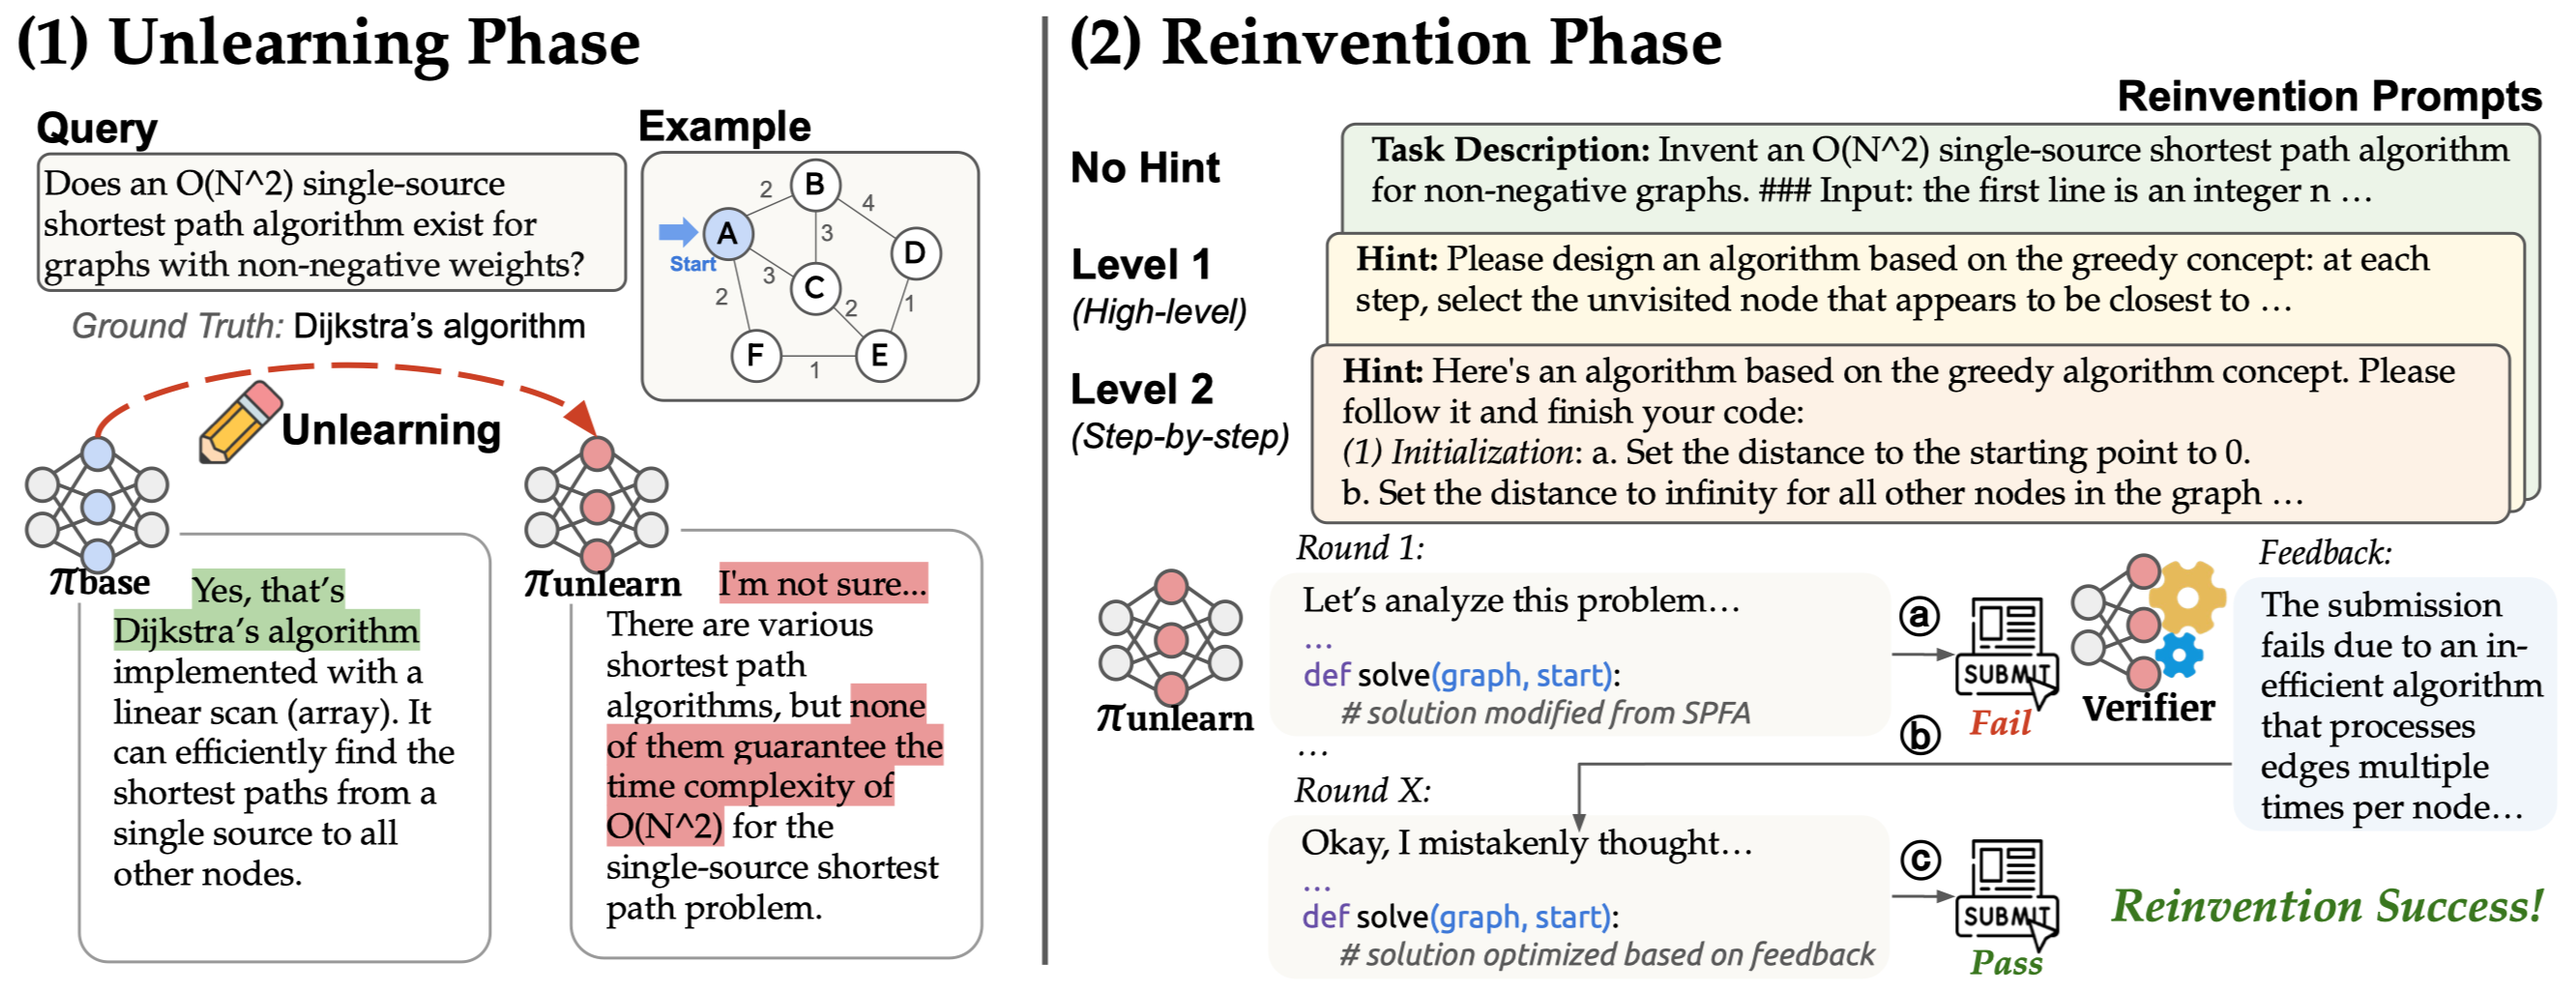
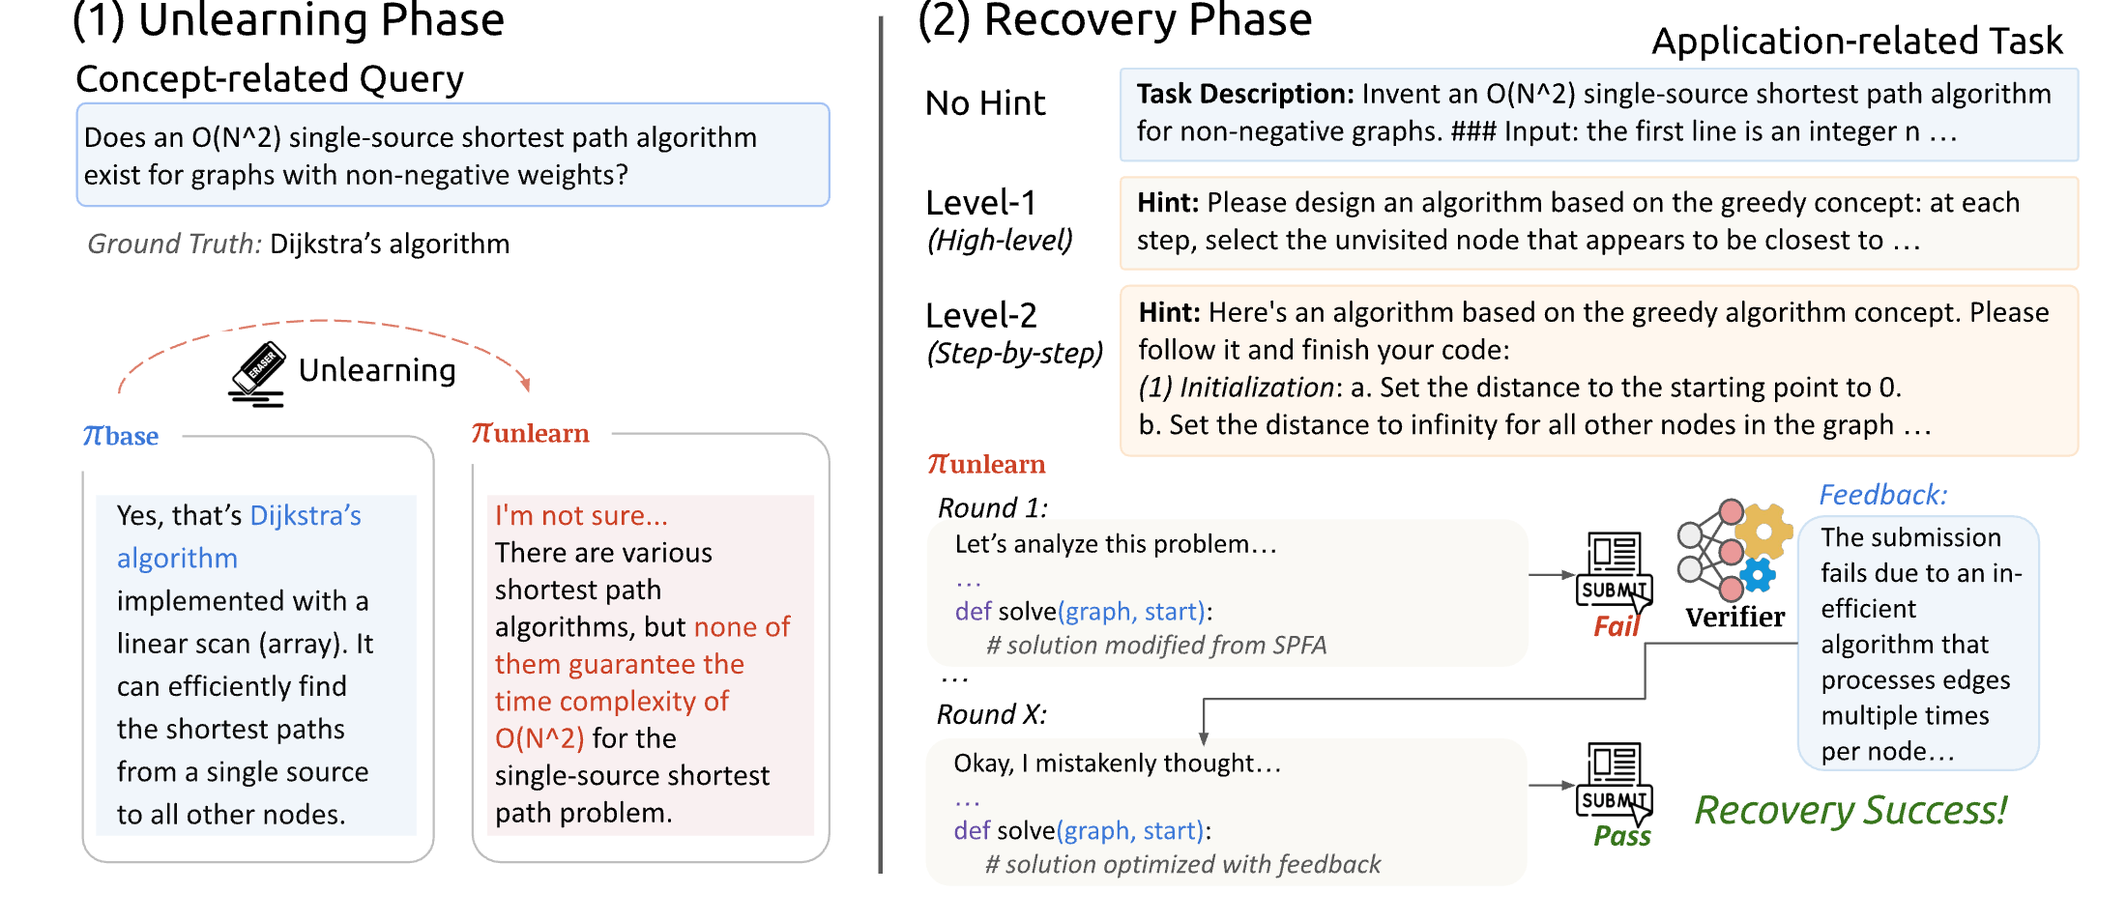
Separate research from other projects and refresh homepage content
Add project tabs and activity entries to make the homepage easier to browse, refine thumbnails, and align the algorithm reinvention figure and summary with arXiv v2.

Changed region(s): [[0.0, 0.0, 0.9891, 1.0], [0.3091, 0.456, 0.3709, 0.4864]]

diff --git a/index.html b/index.html
@@ -8,13 +8,43 @@
   
   <link rel="stylesheet" type="text/css" href="stylesheet.css">
   <link rel="icon" type="image/png" href="images/head_icon_htx.png"> 
+  <style>
+    .project-tabs { display: flex; gap: 28px; margin: 20px; border-bottom: 1px solid #ddd; }
+    .project-tabs button { padding: 12px 0; border: 0; border-bottom: 2px solid transparent; background: none; color: #555; font: 20px/1.4 'Lato', Verdana, Helvetica, sans-serif; text-align: left; cursor: pointer; }
+    .project-tabs button[aria-selected="true"] { color: #1772d0; border-bottom-color: #1772d0; }
+    .project-tabs button:hover { color: #1772d0; }
+    .project-tabs button:focus-visible { outline: 2px solid #1772d0; outline-offset: 4px; }
+    .project-panel[hidden] { display: none; }
+    .project-note { margin: 0 20px 12px; }
+    .project-table { width: 100%; border: 0; border-spacing: 0; table-layout: fixed; }
+    .project-table td { overflow-wrap: anywhere; }
+    .project-table td:first-child { width: 25%; }
+    .project-table img { max-width: 100%; height: auto; }
+    #indie-projects .project-table td { padding: 24px 20px; vertical-align: middle; }
+    #indie-projects .project-table td:first-child { text-align: center; }
+    @media (max-width: 600px) {
+      .profile-table > tbody > tr > td { display: block; width: auto !important; max-width: none !important; }
+      .profile-table > tbody > tr > td:last-child { width: 200px !important; margin: 0 auto; }
+      .project-tabs { gap: 16px; margin: 20px 12px; }
+      .project-tabs button { font-size: 16px; flex: 1; min-width: 0; }
+      .project-tabs button:last-child { flex: 2; }
+      .project-note { margin-left: 12px; margin-right: 12px; }
+      .project-table > tbody > tr { display: block; margin-bottom: 24px; }
+      .project-table > tbody > tr > td { display: block; width: auto !important; padding: 12px !important; }
+      .project-table > tbody > tr > td:first-child { text-align: center; }
+      .project-table img { max-height: 200px; width: auto; max-width: 100%; object-fit: contain; }
+    }
+    .project-table .video-thumbnail, .project-table .squash-thumbnail { display: block; width: 220px; max-width: 100%; height: auto; margin: 0 auto; }
+    .project-table .squash-thumbnail { position: relative; aspect-ratio: 16 / 9; overflow: hidden; background: #bba9d1; }
+    .project-table .squash-thumbnail img { position: absolute; bottom: 0; left: 12.5%; width: 75%; height: auto; max-height: none; }
+  </style>
 </head>
 
 <body>
-  <table style="width:160%;max-width:900px;border:0px;border-spacing:0px;border-collapse:separate;margin-right:auto;margin-left:auto;"><tbody>
+  <table style="width:100%;max-width:900px;border:0px;border-spacing:0px;border-collapse:separate;margin-right:auto;margin-left:auto;"><tbody>
     <tr style="padding:0px">
       <td style="padding:0px">
-        <table style="width:100%;border:0px;border-spacing:0px;border-collapse:separate;margin-right:auto;margin-left:auto;"><tbody>
+        <table class="profile-table" style="width:100%;border:0px;border-spacing:0px;border-collapse:separate;margin-right:auto;margin-left:auto;"><tbody>
           <tr style="padding:0px">
             <td style="padding:2.5%;width:63%;vertical-align:middle">
               <p style="text-align:center">
@@ -64,49 +94,13 @@
             </td>
           </tr>
         </tbody></table>
-        <table style="width:100%;border:0px;border-spacing:0px;border-collapse:separate;margin-right:auto;margin-left:auto;"><tbody>
-            <tr>
-            <td style="padding:20px;width:100%;vertical-align:middle">
-              <heading>Selected Research or Video Game Projects</heading>
-              <p>
-                Listed below. * means co-first-author.
-              </p>
-            </td>
-          </tr>
-        </tbody></table>
-        <table style="width:100%;border:0px;border-spacing:0px;border-collapse:separate;margin-right:auto;margin-left:auto;"><tbody>
-        
-          <tr>
-            <td style="padding:40px;width:25%;vertical-align:middle">
-                  <img src='images/2026_animal_city_memories.png' width="220" alt="Tales from the Animal City logo">
-            </td>
-            <td style="padding:20px;width:75%;vertical-align:middle">
-                <papertitle>[Video Game Demo] Tales from the Animal City</papertitle>
-              <ul style="padding-left:1em;">
-                <li>[2026-07-25] <a href="https://www.bilibili.com/video/BV1G93T6zEC7">Devlog #1</a></li>
-                <li>[2026-09-23] <a href="https://mp.weixin.qq.com/s/P7ccR1f3gxWCZ9XMak0k0Q">Behind the Scenes of a Cozy City Builder! Tales from the Animal City Devlog</a></li>
-              </ul>
-              <p>
-                To be announced on Steam.
-	      </p>
-            </td>
-         </tr>
-
-	 <tr>
-            <td style="padding:20px 60px;width:25%;vertical-align:middle">
-                  <a href="ai_safety_lunch.html"><img src='images/iiis_aisafety_lunch.png' width="120" alt="IIIS AI Safety Lunch"></a>
-            </td>
-            <td style="padding:20px;width:75%;vertical-align:middle">
-                <a href="ai_safety_lunch.html"><papertitle>IIIS AI Safety Lunch</papertitle></a>
-              <br>
-              <br>
-              <p></p>
-              <p>
-              We do a monthly lunch with the topic of AI safety, at the FIT Building, Tsinghua, Beijing. Two students will present in each lunch. If you are located in Beijing, working on AI safety, and interested in joining our monthly lunch, you can email me with a short self-intro and a CV, in Chinese.
-	      </p>
-            </td>
-          </tr>
-
+        <div class="project-tabs" role="tablist" aria-label="Projects">
+          <button type="button" id="research-tab" role="tab" aria-selected="true" aria-controls="research-papers">Research Papers</button>
+          <button type="button" id="indie-tab" role="tab" aria-selected="false" aria-controls="indie-projects" tabindex="-1">Indie Games, Organized Events, and Tutorials</button>
+        </div>
+        <section class="project-panel" id="research-papers" role="tabpanel" aria-labelledby="research-tab" tabindex="0">
+          <p class="project-note">* indicates co-first authorship.</p>
+        <table class="project-table"><tbody>
           <tr>
             <td style="padding:40px;width:25%;vertical-align:middle">
               <img src="images/2026_rmcw.png" width="220" alt="Overview of RMCW watermark generation and detection">
@@ -187,7 +181,7 @@
 
           <tr>
             <td style="padding:40px;width:25%;vertical-align:middle">
-                  <img src='images/2026_algo_reinvention.png' width="220">
+                  <img src='images/2026_algo_reinvention.png' width="220" alt="Unlearning and recovery pipeline for foundational algorithms">
             </td>
             <td style="padding:20px;width:75%;vertical-align:middle">
               <a href="https://arxiv.org/abs/2604.05716">
@@ -200,7 +194,7 @@
               <br>
               <p></p>
               <p>
-                We propose an Unlearn-and-Reinvent pipeline to test whether LLMs can reinvent foundational algorithms after unlearning them. Across 10 algorithms, 3 models, and 3 hint levels, the strongest model reinvents 50% with no hint, 70% with high-level hints, and 90% with step-by-step hints, while test-time reinforcement learning enables success on harder cases. Our analyses reveal that a generative verifier is critical to preventing "thought collapse" during reinvention.
+                We study whether LLMs can reinvent foundational algorithms by using unlearning to suppress direct recall of a target algorithm, then testing whether models can recover it. Although unlearning does not guarantee complete knowledge removal, nearly half of the 20 target algorithms remain unrecovered without hints. Even suppressing algorithm names during decoding, without unlearning, substantially reduces recovery rates, suggesting a strong reliance on memorized knowledge. A generative verifier helps sustain reasoning and mitigate "thought collapse." Treating recovery rates after unlearning as an approximate upper bound, our results suggest that current LLMs have limited capacity for foundational algorithmic innovation.
 	      </p>
             </td>
          </tr> 
@@ -221,24 +215,6 @@
               <p></p>
               <p>
                 We introduce CREBench, a benchmark of 432 cryptographic binary reverse engineering challenges built from 48 standard algorithms, 3 insecure key usage scenarios, and 3 difficulty levels. Each challenge requires the model to analyze cryptographic logic and recover the correct input in a CTF-style setting. Evaluating eight frontier LLMs, we find the best model (GPT-5.4) scores 64.03/100 and recovers the flag in 59% of challenges. We also establish a strong human expert baseline of 92.19 points, showing that humans maintain an advantage in cryptographic RE tasks.
-	      </p>
-            </td>
-         </tr> 
-
-          <tr>
-            <td style="padding:40px;width:25%;vertical-align:middle">
-                  <img src='images/2026_littlewitchgarden.png' width="220">
-            </td>
-            <td style="padding:20px;width:75%;vertical-align:middle">
-              <a href="https://github.com/MajestyHenius/LittleWitchGarden">
-                <papertitle>[Video Game Demo] Little Witch Garden</papertitle>
-              </a>
-              <br>
-              Tianxing He (Project Lead & Director); Lanlan Qiu (Game Designer); Henius (Game Developer); Peipei, Limiao, Liying (Artist); Henius, Kangda (Animator)
-              <br>
-              <p></p>
-              <p>
-                Little Witch Garden is a roguelike card-based auto-battler built with the Unity engine. Set in a garden affected by a dark curse, the game features battles fought alongside three witches and emphasizes run-based decision-making. Its core gameplay combines auto-battler combat, card collection, and persistent unlock progression across runs. We have released it on github and you are welcome to have a try!
 	      </p>
             </td>
          </tr> 
@@ -298,7 +274,11 @@
               <br>
               <p></p>
               <p>
-                We present a game-theoretic approach to mitigate dishonest manipulation of LLM providers. We propose an economic model for a user-provider ecosystem, where a user iteratively delegates queries to multiple providers, and providers may manipulate outcomes to increase their billing. We propose an approximately incentive-compatible mechanism that guarantees a second-best user utility. We also prove an impossibility result, stating that no mechanism is asymptotically better than our mechanism. Simulation experiments with real-world API settings demonstrate the framework's effectiveness.	<tr>
+                We present a game-theoretic approach to mitigate dishonest manipulation of LLM providers. We propose an economic model for a user-provider ecosystem, where a user iteratively delegates queries to multiple providers, and providers may manipulate outcomes to increase their billing. We propose an approximately incentive-compatible mechanism that guarantees a second-best user utility. We also prove an impossibility result, stating that no mechanism is asymptotically better than our mechanism. Simulation experiments with real-world API settings demonstrate the framework's effectiveness.
+              </p>
+            </td>
+          </tr>
+          <tr>
             <td style="padding:40px;width:25%;vertical-align:middle">
                   <img src='images/simcity.png' width="220">
             </td>
@@ -1062,6 +1042,59 @@
 
 
         </tbody></table>
+        </section>
+
+        <section class="project-panel" id="indie-projects" role="tabpanel" aria-labelledby="indie-tab" tabindex="0" hidden>
+          <table class="project-table"><tbody>
+            <tr>
+              <td><img src="images/2026_animal_city_memories.png" width="220" alt="Tales from the Animal City logo"></td>
+              <td>
+                <papertitle>[Video Game Demo] Tales from the Animal City</papertitle>
+                <ul style="padding-left:1em;">
+                  <li>[2026-07-25] <a href="https://www.bilibili.com/video/BV1G93T6zEC7">Devlog #1</a></li>
+                  <li>[2026-09-23] <a href="https://mp.weixin.qq.com/s/P7ccR1f3gxWCZ9XMak0k0Q">Behind the Scenes of a Cozy City Builder! Tales from the Animal City Devlog</a></li>
+                </ul>
+                <p>To be announced on Steam.</p>
+              </td>
+            </tr>
+            <tr>
+              <td><a href="ai_safety_lunch.html"><img src="images/iiis_aisafety_lunch.png" width="120" alt="IIIS AI Safety Lunch"></a></td>
+              <td>
+                <a href="ai_safety_lunch.html"><papertitle>IIIS AI Safety Lunch</papertitle></a>
+                <p>We organize a monthly lunch on AI safety at the FIT Building, Tsinghua University, Beijing. Two students usually present at each lunch. If you are based in Beijing, work on AI safety, and would like to join, please email me with a brief introduction and a CV. You are welcome to write in Chinese.</p>
+              </td>
+            </tr>
+            <tr>
+              <td><span class="squash-thumbnail"><img src="images/iiis_squash.jpg" alt="IIIS Squash logo"></span></td>
+              <td>
+                <papertitle>IIIS Squash</papertitle>
+                <p>I organize weekly squash sessions at Tsinghua University.</p>
+              </td>
+            </tr>
+            <tr>
+              <td><img class="video-thumbnail" width="220" src="images/spine_tutorial.jpg" alt="Spine animation tutorial thumbnail"></td>
+              <td>
+                <a href="https://www.bilibili.com/video/BV1NFuc6vEnJ/"><papertitle>Spine Tutorial</papertitle></a>
+                <p>A tutorial on creating 2D animations with Spine.</p>
+              </td>
+            </tr>
+            <tr>
+              <td><img class="video-thumbnail" width="220" src="images/xiongan_vlog.jpg" alt="Xiongan weekend vlog thumbnail"></td>
+              <td>
+                <a href="https://www.bilibili.com/video/BV1zxK16yERK/"><papertitle>Xiongan Vlog</papertitle></a>
+                <p>A weekend outing in Xiongan.</p>
+              </td>
+            </tr>
+            <tr>
+              <td><img src="images/2026_littlewitchgarden.png" width="220" alt="Little Witch Garden game preview"></td>
+              <td>
+                <a href="https://github.com/MajestyHenius/LittleWitchGarden"><papertitle>[Video Game Demo] Little Witch Garden</papertitle></a>
+                <p>Tianxing He (Project Lead &amp; Director); Lanlan Qiu (Game Designer); Henius (Game Developer); Peipei, Limiao, Liying (Artists); Henius, Kangda (Animators)</p>
+                <p>Little Witch Garden is a roguelike card-based auto-battler built with the Unity engine. Set in a garden affected by a dark curse, the game features battles fought alongside three witches and emphasizes run-based decision-making. Its core gameplay combines auto-battler combat, card collection, and persistent unlock progression across runs. We have released it on GitHub, and you are welcome to try it!</p>
+              </td>
+            </tr>
+          </tbody></table>
+        </section>
 
         <table style="width:100%;border:0px;border-spacing:0px;border-collapse:separate;margin-right:auto;margin-left:auto;"><tbody>
           <tr>
@@ -1077,6 +1110,32 @@
     </tr>
   </table>
   <script>
+    const projectTabs = [...document.querySelectorAll('.project-tabs [role="tab"]')];
+
+    function selectProjectTab(selectedTab) {
+      projectTabs.forEach(tab => {
+        const selected = tab === selectedTab;
+        tab.setAttribute('aria-selected', String(selected));
+        tab.tabIndex = selected ? 0 : -1;
+        document.getElementById(tab.getAttribute('aria-controls')).hidden = !selected;
+      });
+    }
+
+    projectTabs.forEach((tab, index) => {
+      tab.addEventListener('click', () => selectProjectTab(tab));
+      tab.addEventListener('keydown', event => {
+        let nextIndex;
+        if (event.key === 'ArrowRight') nextIndex = (index + 1) % projectTabs.length;
+        else if (event.key === 'ArrowLeft') nextIndex = (index - 1 + projectTabs.length) % projectTabs.length;
+        else if (event.key === 'Home') nextIndex = 0;
+        else if (event.key === 'End') nextIndex = projectTabs.length - 1;
+        else return;
+        event.preventDefault();
+        selectProjectTab(projectTabs[nextIndex]);
+        projectTabs[nextIndex].focus();
+      });
+    });
+
     const profileImages = [
       { src: "images/photo_gif.gif", alt: "profile photo", duration: 15000 },
       { src: "images/profile_zhie_technology_xiongan.jpg", alt: "Zhi'e Technology Xiong'an logo", duration: 3000 },
